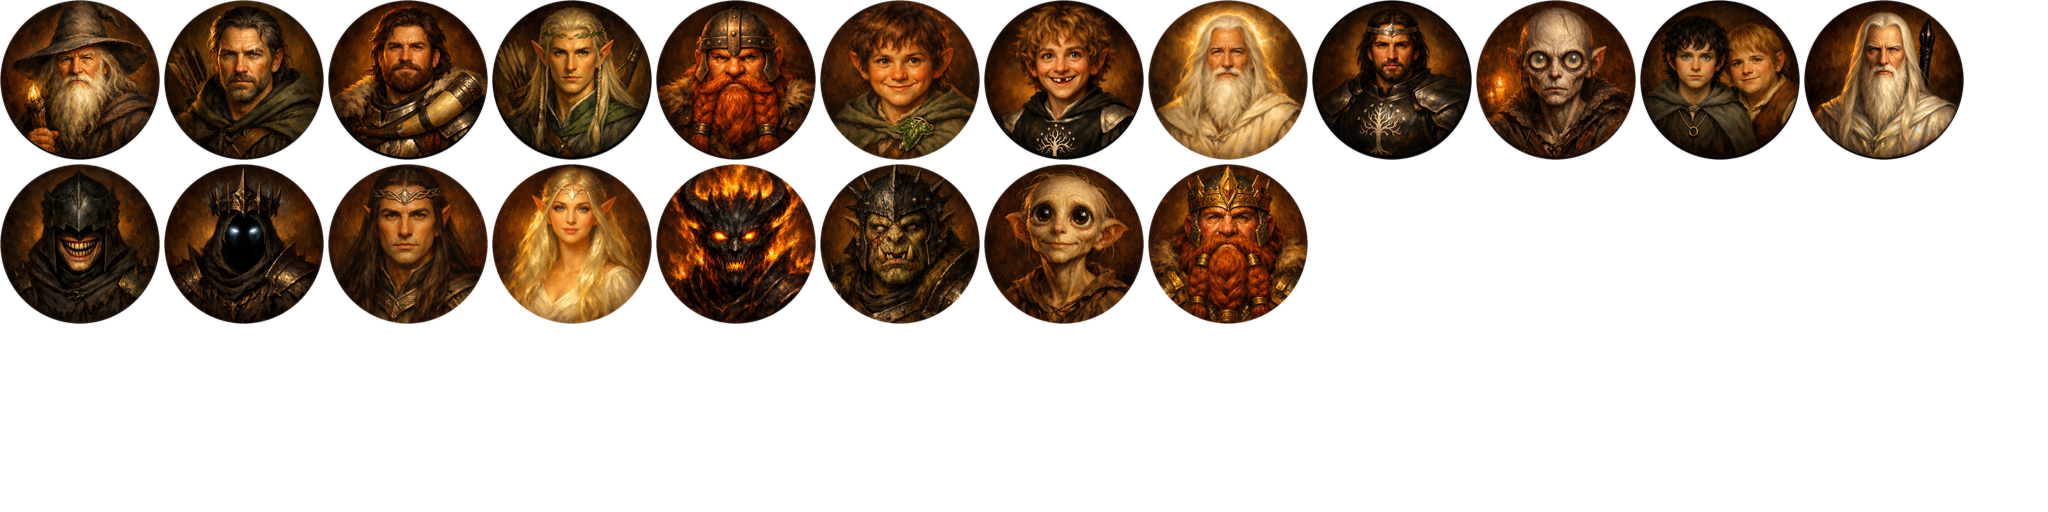
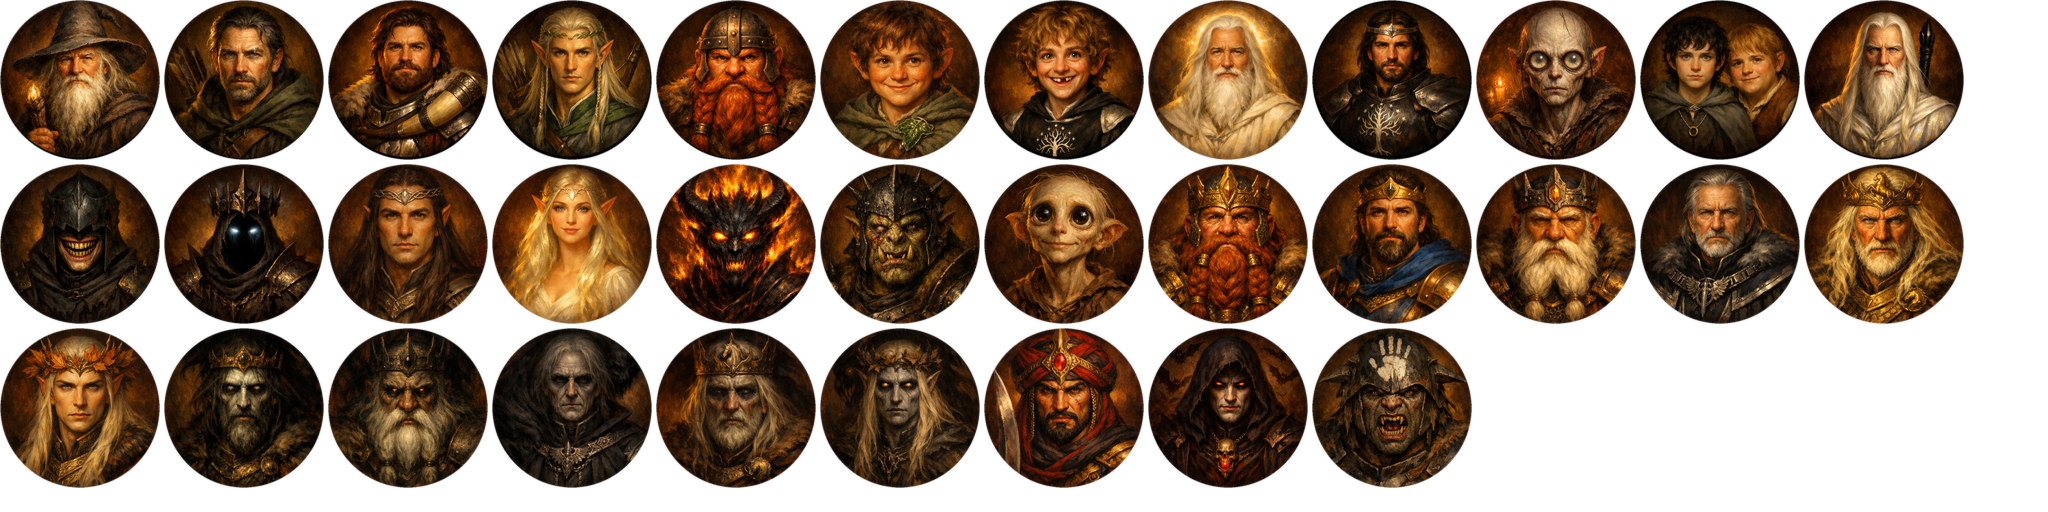
ART-07: Kings of Middle-earth painted figures and portraits
Generated the sovereigns' awakened figures and awakened/corrupted portraits and
the Chieftains' figures and portraits (21 images) and rebuilt the atlases; no
character art is pending. The module's UI pieces come with its UI tasks.

Changed region(s): [[0.0, 0.3125, 0.9688, 0.9688]]

diff --git a/unity/Wotr.Client/Assets/Wotr/Tests/Editor/CharacterFigureArtTests.cs b/unity/Wotr.Client/Assets/Wotr/Tests/Editor/CharacterFigureArtTests.cs
@@ -21,12 +21,21 @@ namespace Wotr.EditorTests
         // the base figures, as every version does).
         private static readonly string[] LordsCharacters = { "elrond", "galadriel", "balrog", "gothmog", "smeagol" };
 
+        // ART-07: the Kings of Middle-earth sovereigns (awakened figures; awakened and corrupted portraits) and Chieftains.
+        private static readonly string[] KingsFigures =
+        {
+            "brand-awakened", "dain-awakened", "denethor-awakened", "theoden-awakened", "thranduil-awakened",
+            "black-serpent", "shadow-of-mirkwood", "ugluk"
+        };
+
         [Test]
         public void EveryBaseCharacterHasItsOwnFigure()
         {
             // ART-05/ART-06: the expansions' own characters join the atlas as their art is generated (Fate's Dwarven
             // Lord, the Lords characters).
-            CollectionAssert.AreEquivalent(BaseCharacters.Append("gimli-dwarven-lord").Concat(LordsCharacters), FigureArtwork.Characters.Names);
+            CollectionAssert.AreEquivalent(BaseCharacters.Append("gimli-dwarven-lord").Concat(LordsCharacters).Concat(KingsFigures),
+                FigureArtwork.Characters.Names);
+            Assert.AreEqual("theoden-awakened", FigureAppearances.Character("kings.character.theoden.awakened", Side.FreePeoples).Key);
             Assert.AreEqual("gimli-dwarven-lord", FigureAppearances.Character("fate.character.gimli-dwarven-lord", Side.FreePeoples).Key);
             foreach (var key in LordsCharacters)
             {
@@ -47,7 +56,7 @@ namespace Wotr.EditorTests
         }
 
         [Test]
-        public void BaseAndLordsCharactersHavePaintedPortraits()
+        public void EveryCharacterHasAPaintedPortrait()
         {
             var painted = Resources.Load<Texture2D>(PortraitArtwork.BasePath);
             Assert.IsNotNull(painted);
@@ -59,8 +68,10 @@ namespace Wotr.EditorTests
             Assert.AreSame(painted, PortraitArtwork.Sprite("lords.character.gimli").texture, "Versions share the portrait.");
             foreach (var key in LordsCharacters)
                 Assert.AreSame(painted, PortraitArtwork.Sprite("lords.character." + key).texture, key + " has its painted portrait.");
-            // Every character with a UI-120 portrait is painted now; one whose art is not generated yet has none.
-            Assert.IsNull(PortraitArtwork.Sprite("kings.character.black-serpent"));
+            // ART-07: each sovereign state and each Chieftain has its painted portrait too.
+            foreach (var id in new[] { "kings.character.theoden.awakened", "kings.character.theoden.corrupted",
+                "kings.character.dain.corrupted", "kings.character.black-serpent", "kings.character.ugluk" })
+                Assert.AreSame(painted, PortraitArtwork.Sprite(id)?.texture, id + " has its painted portrait.");
         }
     }
 }

diff --git a/scripts/build_figure_art.py b/scripts/build_figure_art.py
@@ -121,7 +121,7 @@ def build():
 
 def report(outputs, sources, pending):
     return {
-        'version': 'art-figures-1', 'tasks': ['ART-01', 'ART-02', 'ART-04', 'ART-05', 'ART-06'],
+        'version': 'art-figures-1', 'tasks': ['ART-01', 'ART-02', 'ART-04', 'ART-05', 'ART-06', 'ART-07'],
         'sources': {**sources, 'graphicalassets/figures/v3/prompts.json': sha((SOURCE / 'prompts.json').read_bytes()),
                     'scripts/build_figure_art.py': sha(Path(__file__).read_bytes())},
         'tools': {'Pillow': PIL.__version__},

diff --git a/docs/ui/UX_SPEC.md b/docs/ui/UX_SPEC.md
@@ -1248,6 +1248,14 @@ with its control, settlement and points. Tests: `MapLandmarksTests.AFateGameDraw
 `RegionVictoryTextTests`, `VictoryPanelNetworkTests.FateNewCitiesAndKingsKeepTheirAuthoritativeScoringOrigins` (with a
 screenshot of Erebor), `ConfigurationLayoutTests` (all 93 configurations in four layouts).
 
+## Kings of Middle-earth art — ART-07 (2026-10-19, painted part)
+
+Generated and built like ART-06: the awakened figures of Brand, Dáin, Denethor, Théoden and Thranduil, their awakened
+and corrupted portraits (grey-faced and hollow-eyed under a creeping shadow), and the Chieftains — the Black Serpent,
+the Shadow of Mirkwood and Uglúk — figure and portrait. `docs/sources/ART-FIGURES.json` lists nothing pending. The
+UI pieces of the module (Ruler die body, Ruler and Dismay tokens, the corruption-attempt button, the Kings Hunt tile)
+come with UI-273, UI-274 and UI-276.
+
 ## Lords of Middle-earth art — ART-06 (2026-10-19)
 
 Generated with `graphicalassets/figures/v3/generate.py` (prompts in `prompts.json`) and built with
